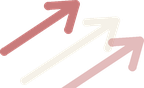
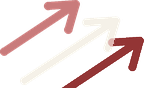
Update Sebastian mark to pink/white/red
Sync the recolored sebastian-volley-dark.png (third arrow now the app's
red #8E2C2C instead of the muddy half-opacity brown) and update the alt
text and brand-sheet note to describe the pink/white/red arrows.

Claude-Session: https://claude.ai/code/session_01PccSKCoKKwGhQ7BbhdNMyp

Changed region(s): [[0.4167, 0.4091, 1.0, 1.0]]

diff --git a/index.html b/index.html
@@ -141,7 +141,7 @@
     </div>
     <div class="niches">
       <article class="niche sebastian">
-        <div class="tile"><img class="app-mark" src="assets/sebastian-volley-dark.png" width="46" alt="Sebastian app logo — twin ascending arrows"></div>
+        <div class="tile"><img class="app-mark" src="assets/sebastian-volley-dark.png" width="46" alt="Sebastian app logo — ascending arrows in pink, white, and red"></div>
         <div class="n-cat">AI Running Coach</div>
         <h3 class="n-title-seb">Sebastian</h3>
         <p class="n-desc">Programs your week — tempo, threshold, and long runs — and holds you to it, one honest effort at a time.</p>
@@ -260,7 +260,7 @@
         <div class="mark-notes">
           <p class="lead">Simplified: one clean frond, one weight, no seal.</p>
           <p>The parent mark is a single palm frond drawn in a single gold line, over a small base-dot — the same dot that anchors Palma's icon, so parent and ledger read as kin. It pairs with a modern, wide-tracked wordmark.</p>
-          <p>The children carry their own app icons directly: Sebastian's twin ascending arrows, and Palma's cream stride frond rising from a gold base-dot. Parent = one frond; Palma = the full frond; Sebastian = the ascent.</p>
+          <p>The children carry their own app icons directly: Sebastian's ascending arrows in pink, white, and red, and Palma's cream stride frond rising from a gold base-dot. Parent = one frond; Palma = the full frond; Sebastian = the ascent.</p>
         </div>
       </div>
     </section>